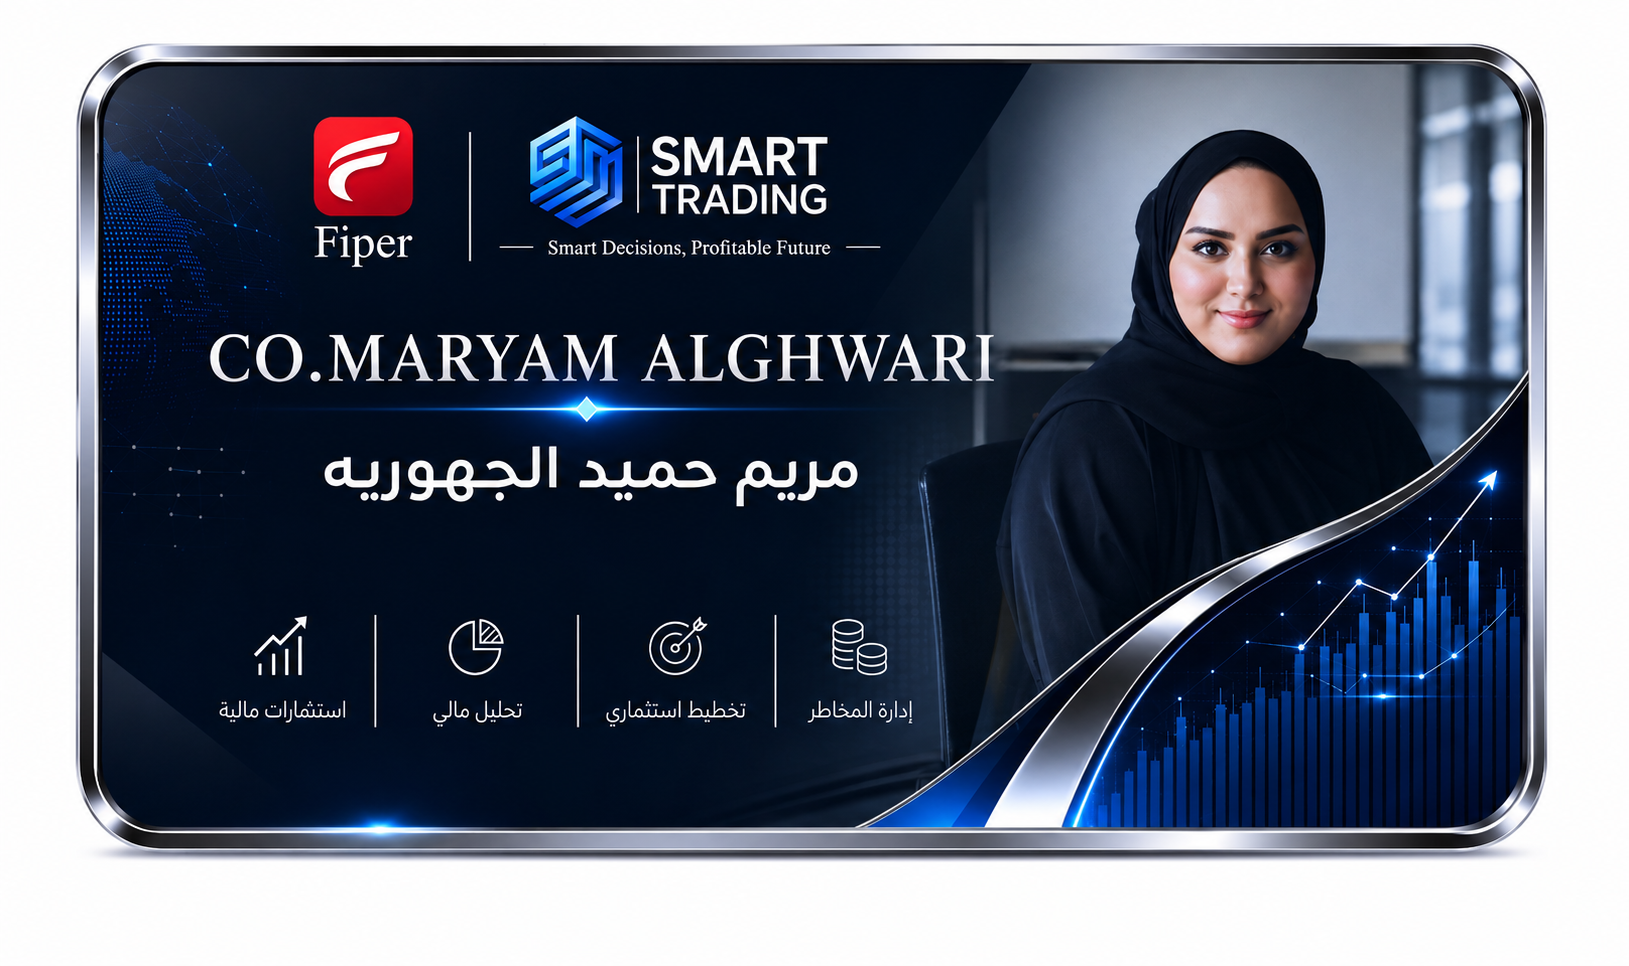
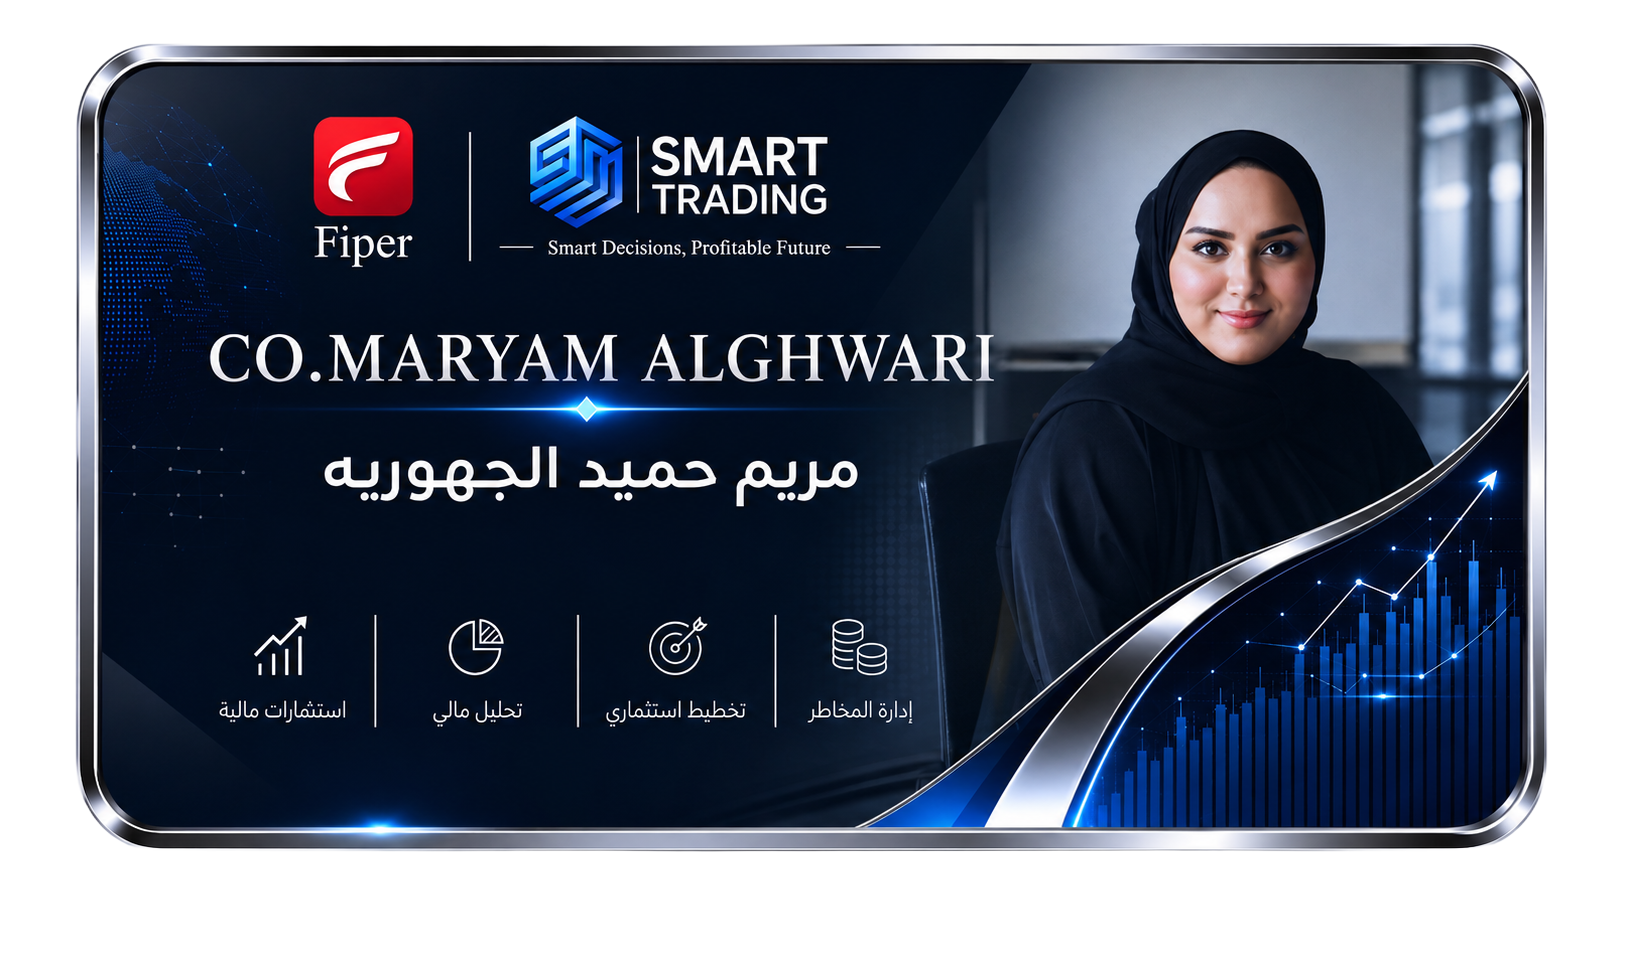
Remove white border and styling from user image
Update artifacts/trading-courses/index.html to remove border-radius and box-shadow from .hero-card-img and add a cache-busting query parameter to the image source. Update artifacts/trading-courses/public/maryam-card.png to remove the white background.

Replit-Commit-Author: Agent
Replit-Commit-Session-Id: cd811954-df86-4f2b-906e-686c9e095d0e
Replit-Commit-Checkpoint-Type: full_checkpoint
Replit-Commit-Event-Id: 2672440d-1948-48d6-acf9-18b1afbf058d
Replit-Commit-Screenshot-Url: https://storage.googleapis.com/screenshot-production-us-central1/88f454c8-2387-46a0-a1c7-ab1615058069/cd811954-df86-4f2b-906e-686c9e095d0e/8W1dKUD
Replit-Helium-Checkpoint-Created: true

Changed region(s): [[0.0614, 0.8696, 0.9208, 0.9006]]

diff --git a/artifacts/trading-courses/index.html b/artifacts/trading-courses/index.html
@@ -219,8 +219,8 @@ body{font-family:var(--font-ar);background:var(--warm-white);color:var(--text);d
 
 /* ── Hero ── */
 .hero{text-align:center;padding:3rem 0 2rem}
-.hero-card-img{display:block;width:100%;max-width:640px;height:auto;margin:0 auto 2rem;border-radius:20px;box-shadow:0 24px 60px rgba(44,36,32,.2),0 6px 18px rgba(44,36,32,.08)}
-@media(max-width:600px){.hero-card-img{max-width:100%;border-radius:14px;margin-bottom:1.5rem}}
+.hero-card-img{display:block;width:100%;max-width:640px;height:auto;margin:0 auto 2rem}
+@media(max-width:600px){.hero-card-img{max-width:100%;margin-bottom:1.5rem}}
 .hero-label{font-family:var(--font-en);font-size:.62rem;letter-spacing:.3em;text-transform:uppercase;color:var(--gold);margin-bottom:.5rem}
 .hero-title{font-family:var(--font-serif);font-size:2.1rem;font-weight:600;line-height:1.25;margin-bottom:.875rem}
 .hero-desc{font-size:.9rem;color:var(--text-muted);max-width:340px;margin:0 auto 1.75rem;line-height:1.75}
@@ -675,7 +675,7 @@ body{font-family:var(--font-ar);background:var(--warm-white);color:var(--text);d
 <div class="view active" id="view-home">
   <div class="container">
     <div class="hero">
-      <img class="hero-card-img" src="maryam-card.png" alt="مريم حميد الجهورية - Co. Maryam Alghwari">
+      <img class="hero-card-img" src="maryam-card.png?v=2" alt="مريم حميد الجهورية - Co. Maryam Alghwari">
       <p class="hero-label">Maryam Alghwari</p>
       <h1 class="hero-title">رحلتك المالية<br>تبدأ هنا</h1>
       <p class="hero-desc">خدمات مالية حصرية وبرامج تعليمية متخصصة في التداول والاستثمار — مصممة لمن يريد الانتقال إلى مستوى أعلى</p>
